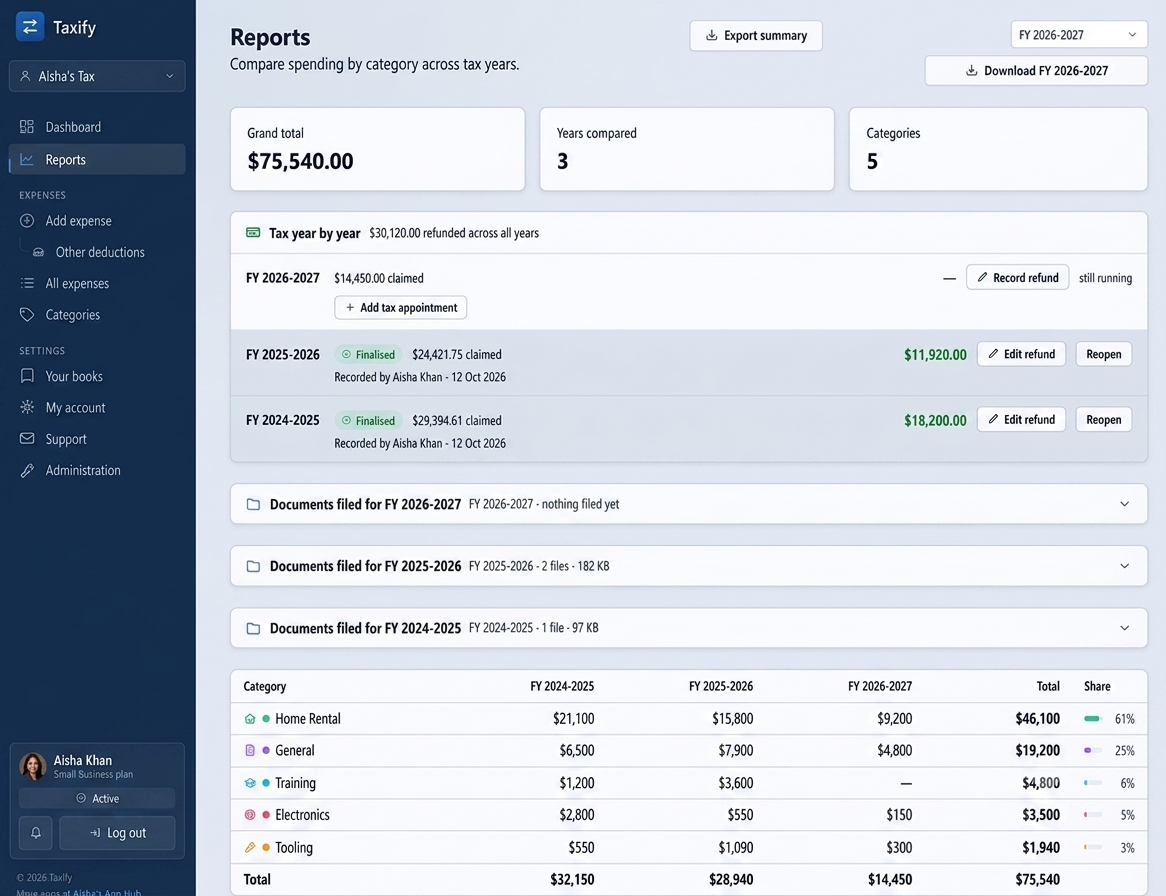
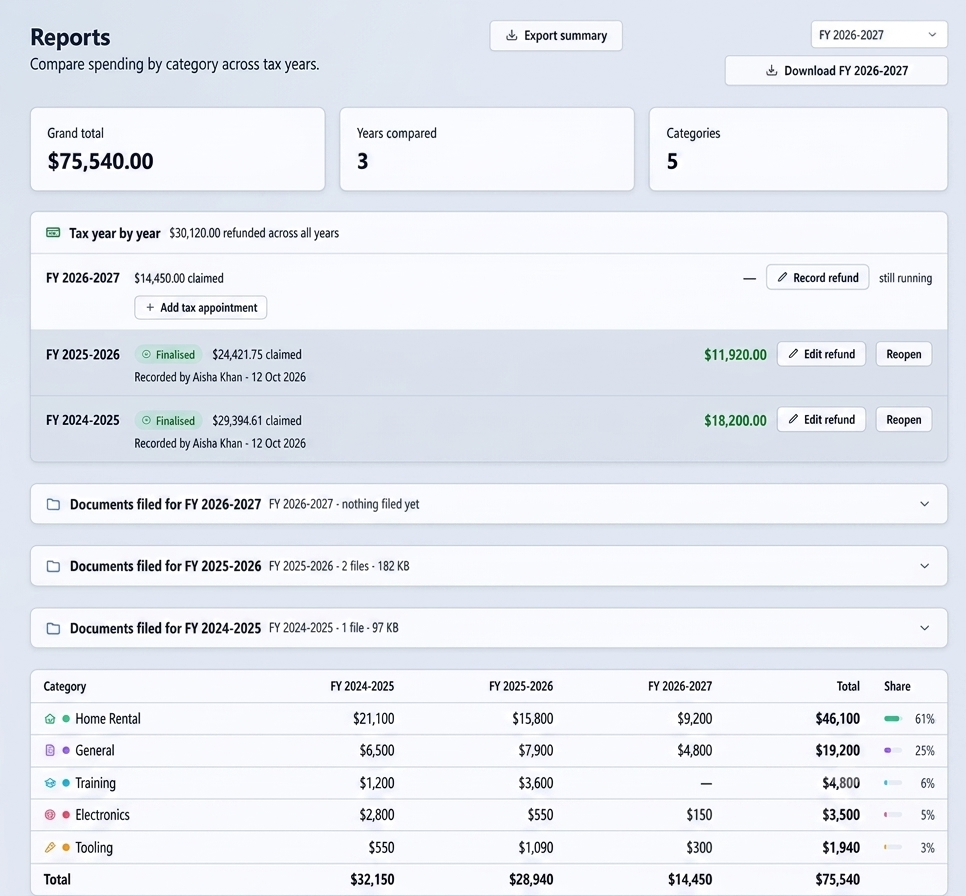
Crop the typo off the landing screenshot, drop a dead column
The reports screenshot had "Small Susiness plan" in its sidebar, baked into
the pixels, on a public marketing page. Nothing here can regenerate the image
and nothing on this machine can rasterise text — but the sidebar was never
what the panel was for. The caption talks about categories across years, which
is the table. Cropping the sidebar off takes the typo with it and leaves the
figures larger at the same panel size, which is the point of the section.

Cropped by hand in plain Node: inflate the IDAT, undo the per-scanline
filters, take the columns we want, re-filter and deflate.

Both landing pages declared it 1166x868. It was 1166x896, so the browser was
reserving the wrong shape and the section shifted as it loaded. The React one
declared 4:3 for all three panels, which only the two drawings are — each now
carries its own size.

activation_reminded_at is dropped. sent_reminders does the same job keyed by
user and reminder; this column was the first attempt and could only remember
one reminder per account. Nothing has read or written it since, and a column
nobody writes is one somebody eventually trusts.

sent_reminders.sent_at is deliberately kept, against what was asked. It is
unused by code but it is the only record of when a reminder actually went out,
which is the answer to "you never warned me". Eight bytes a row against
deleting the audit trail is not a trade worth making — say so and I will drop
it.

228 server tests green.

diff --git a/client/src/pages/Landing.jsx b/client/src/pages/Landing.jsx
@@ -407,14 +407,17 @@ export default function Landing() {
             {[
               ['shot-capture', 'You do this', 'Photograph it and move on', 'One tap at the counter. Taxify reads the date and the total, and files it under the right category and year.'],
               ['shot-expenses', 'Taxify does this', 'Everything in one place', 'Sorted, searchable, with the receipt attached to the expense — so a question in two years takes a moment, not an afternoon.'],
-              ['shot-reports.png', 'Come tax time', 'The numbers, already added up', 'Every category, every year side by side. Hand it to your accountant, or copy it straight into your return.'],
-            ].map(([file, step, title, text]) => (
+              ['shot-reports.png', 'Come tax time', 'The numbers, already added up', 'Every category, every year side by side. Hand it to your accountant, or copy it straight into your return.', [966, 896]],
+            ].map(([file, step, title, text, size = [480, 360]]) => (
+              // Its own shape, so the browser reserves the right box and the
+              // section does not jump as each one loads. They were all declared
+              // 4:3, which the real screenshot is not.
               <div key={file} style={{ minWidth: 0 }}>
                 <img
                   src={`/media/${file.includes('.') ? file : `${file}.svg`}`}
                   alt={title}
-                  width="480"
-                  height="360"
+                  width={size[0]}
+                  height={size[1]}
                   loading="lazy"
                   role="button"
                   tabIndex={0}

diff --git a/server/src/db.js b/server/src/db.js
@@ -124,7 +124,13 @@ export async function ensureSchema() {
   await pool.query(`ALTER TABLE users ADD COLUMN IF NOT EXISTS promo_code VARCHAR(40) NULL`);
   // Reminders are sent on a schedule before an unactivated account is purged,
   // so the job needs to know which ones have already gone out.
-  await pool.query(`ALTER TABLE users ADD COLUMN IF NOT EXISTS activation_reminded_at DATETIME NULL`);
+  //
+  // That is what sent_reminders does, keyed by user and reminder — this column
+  // was the first attempt at the same thing and could only remember one
+  // reminder per account. Nothing has read or written it since. Dropped rather
+  // than left, because a column nobody writes is one somebody eventually
+  // trusts.
+  await pool.query(`ALTER TABLE users DROP COLUMN IF EXISTS activation_reminded_at`);
 
   // Password resets. Only the hash is stored, same as activation tokens — a
   // stolen database backup then can't be used to reset anybody's password.

diff --git a/landing.html b/landing.html
@@ -588,7 +588,7 @@
           <div class="shot-text">Sorted, searchable, with the receipt attached to the expense — so a question in two years takes a moment, not an afternoon.</div>
         </div>
         <div class="shot-panel">
-          <img src="/media/shot-reports.png" alt="The reports page: three tax years side by side, each category totalled and its share of the whole" width="1166" height="868" loading="lazy">
+          <img src="/media/shot-reports.png" alt="The reports page: three tax years side by side, each category totalled and its share of the whole" width="966" height="896" loading="lazy">
           <span class="shot-step">Come tax time</span>
           <div class="shot-title">The numbers, already added up</div>
           <div class="shot-text">Every category, every year side by side. Hand it to your accountant, or copy it straight into your return.</div>
